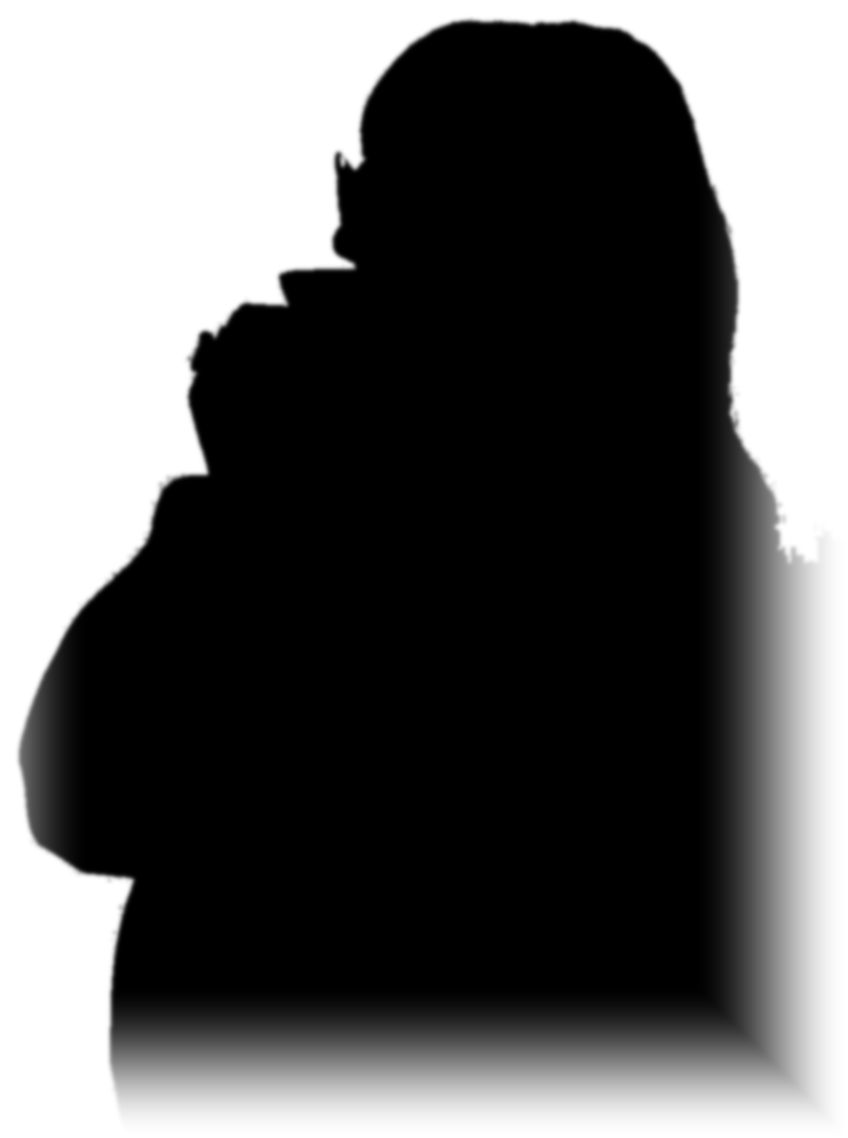
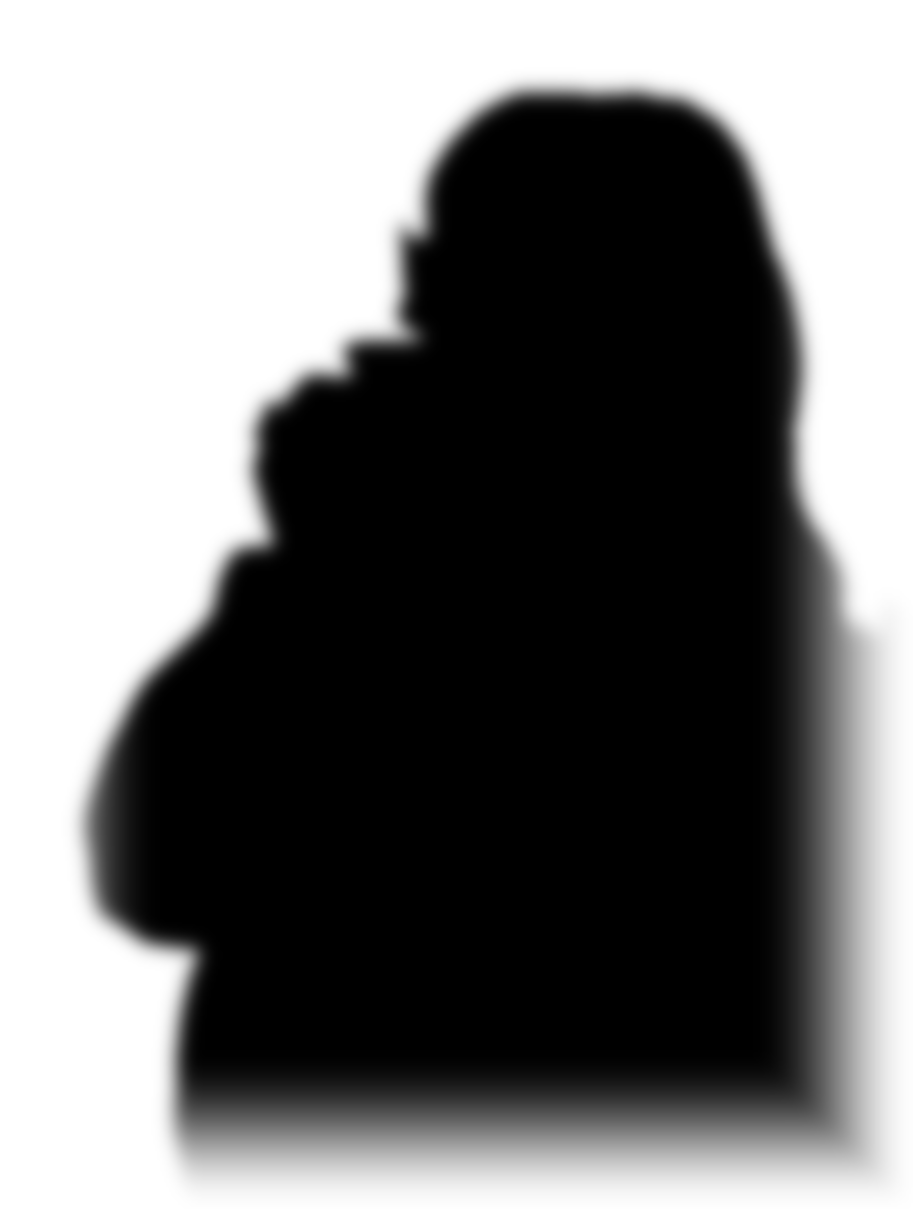
Мʼякий перехід силуету у фон
Бінарна маска на фото давала вирізаний контур: різкий стрибок між
світлим тлом і майже чорною постаттю, а будь-яка полога дуга —
зокрема верх зачіски — читалась як пряма лінія.

Перевірено, що плато геометричне, а не артефакт витягування:
воно є на всіх порогах від 0.78 до 0.88 (90–180px).

- край маски розтушований у самому файлі (2 → 9px), поле обрізки
  збільшене з 1.5% до 7%
- контраст знижено: постать більше не чорна пляма, а тінь за склом
- запас під розліт блюру перерахований під нові радіуси

Заміряний перехід: 100px від 10% до 90% перепаду, перепад 234 → 81
замість різкого стрибка.

Changed region(s): [[0.0, 0.0, 0.9198, 0.9842], [0.9198, 0.4613, 0.9811, 0.5228]]

diff --git a/css/style.css b/css/style.css
@@ -227,7 +227,7 @@ body.is-menu .mn__nav a:nth-child(4){transition-delay:.3s}
 }
 
 .fig__far{
-  opacity:.22;filter:blur(34px) contrast(1.2);
+  opacity:.16;filter:blur(38px) contrast(1.1);
   transform:translate3d(calc(var(--pp-x,0px) * .14),calc(var(--pp-y,0px) * .14),0) scale(1.12);
 }
 /* Мʼякий план ховається рівно там, де відкривається різкий: маска в
@@ -236,7 +236,7 @@ body.is-menu .mn__nav a:nth-child(4){transition-delay:.3s}
    При --mr:0 (спокій, і секція «Підхід») градіус вироджується
    і шар лишається суцільним. */
 .fig__soft{
-  opacity:.8;filter:blur(15px) contrast(1.25);
+  opacity:.56;filter:blur(19px) contrast(1.08);
   transform:translate3d(calc(var(--pp-x,0px) * .46),calc(var(--pp-y,0px) * .46),0);
   -webkit-mask-image:radial-gradient(circle var(--mr,0px) at var(--mx) var(--my),
     transparent 0%,transparent 38%,rgba(0,0,0,.54) 68%,rgba(0,0,0,.9) 88%,#000 100%);
@@ -248,7 +248,7 @@ body.is-menu .mn__nav a:nth-child(4){transition-delay:.3s}
 /* У спокої радіус нульовий: доки на фігуру не дивляться, різкого
    в ній немає нічого. Фокус з’являється тільки від руху курсора. */
 .fig__sharp{
-  opacity:.8;filter:blur(2px) contrast(1.3);
+  opacity:.62;filter:blur(3px) contrast(1.15);
   transform:translate3d(var(--pp-x,0px),var(--pp-y,0px),0) scale(1.015);
   -webkit-mask-image:radial-gradient(circle var(--mr,0px) at var(--mx) var(--my),
     #000 0%,#000 38%,rgba(0,0,0,.46) 68%,rgba(0,0,0,.1) 88%,transparent 100%);
@@ -693,9 +693,9 @@ body.is-done .hero__w--2{animation:wordIn 1.35s var(--e) .16s both}
   /* Запас рахується від радіуса розмиття: найсильніший шар — 16px,
      розтікається приблизно на 48px, тому кадр відступає від краю
      екрана на 13%. Інакше блюр обрізало б вікном браузера. */
-  .fig--hero img{inset:12% 17%;width:66%;height:76%}
-  .fig--hero .fig__soft{filter:blur(10px) contrast(1.26);opacity:.8}
-  .fig--hero .fig__far{filter:blur(16px) contrast(1.2);opacity:.24}
+  .fig--hero img{inset:12% 19%;width:62%;height:76%}
+  .fig--hero .fig__soft{filter:blur(12px) contrast(1.1);opacity:.56}
+  .fig--hero .fig__far{filter:blur(18px) contrast(1.1);opacity:.17}
   .hero__note{grid-row:1;max-width:none;font-size:12px;text-align:left}
   .hero .circle{grid-row:2;justify-self:end;align-self:end;margin-bottom:16px}
   .hero__t{grid-row:3;padding-bottom:16px}
